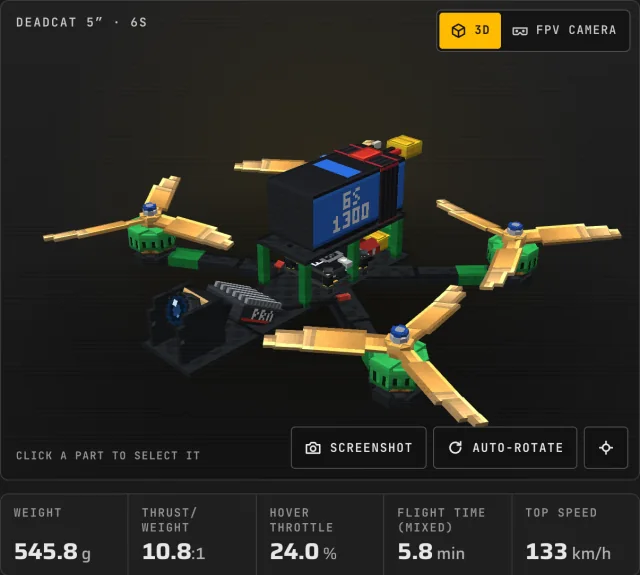
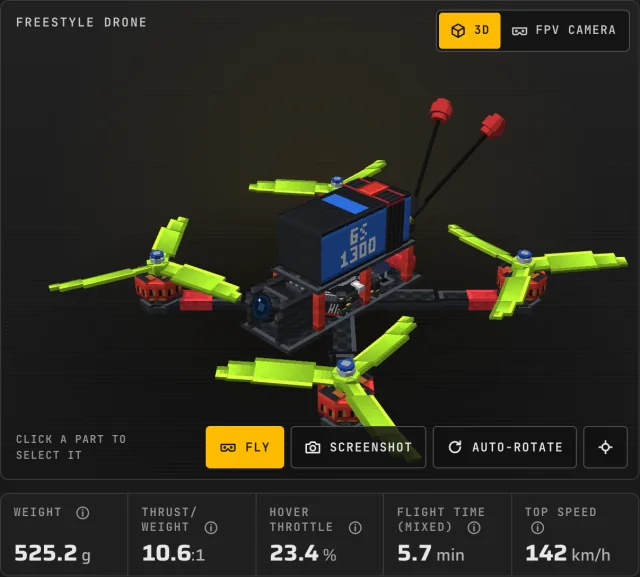
Bild des Konfigurators (OF-8) neu aus dem Konfigurator dieses Stands: Preset Freestyle-Drohne von Propwash mit den Blockmodellen und Werten des 0.6.0-Katalogs (RX-Antennen, Knopf FLY), wie die Drohne der Spielaufnahmen; build-configurator-shot.mjs mit --preset und schreibt die Bildhöhe in index.html

diff --git a/index.html b/index.html
@@ -352,7 +352,7 @@
       </div>
     </div>
     <a class="teaser__shot" href="configurator/" tabindex="-1" aria-hidden="true">
-      <img src="assets/img/configurator-preview-640.webp" srcset="assets/img/configurator-preview-640.webp 640w, assets/img/configurator-preview-1200.webp 1200w" sizes="(min-width: 1060px) 600px, 100vw" width="1200" height="1079" loading="lazy" decoding="async" alt="">
+      <img src="assets/img/configurator-preview-640.webp" srcset="assets/img/configurator-preview-640.webp 640w, assets/img/configurator-preview-1200.webp 1200w" sizes="(min-width: 1060px) 600px, 100vw" width="1200" height="1083" loading="lazy" decoding="async" alt="">
     </a>
   </div>
 </section>

diff --git a/README.md b/README.md
@@ -144,14 +144,16 @@ Pictures also used by the docs (`assets/img/docs/`) are not converted twice. Aft
 mod, check the cut-outs by eye. Needs ImageMagick and `cwebp`. The link previews come from
 `tools/build-og-images.mjs` (see [Link previews](#link-previews)).
 
-The picture of the configurator section is the configurator itself (3D view and flight figures of the default preset,
-English, standing still), taken in headless Chrome:
+The picture of the configurator section is the configurator itself (3D view and flight figures, English, standing
+still), taken in headless Chrome. It shows the preset *Freestyle Drone* of Propwash, the drone of the mod's own
+screenshots, with the block models and figures of the catalog in `assets/data/configurator/`:
 
 ```sh
-node tools/build-configurator-shot.mjs   # assets/img/configurator-preview-640.webp and -1200.webp
+node tools/build-configurator-shot.mjs   # assets/img/configurator-preview-640.webp and -1200.webp, height in index.html
 ```
 
-Run it again after the configurator or its default preset changes; `--code <share code>` shows another drone,
+Run it again after the configurator data or the configurator changes (the result is byte-identical while nothing
+changes); `--preset <id>` picks another preset of the catalog, `--code <share code>` opens a share code,
 `--zoom <steps>` zooms in like the <kbd>+</kbd> key (default 2). Needs Google Chrome and `cwebp`.
 
 ## Navigation
